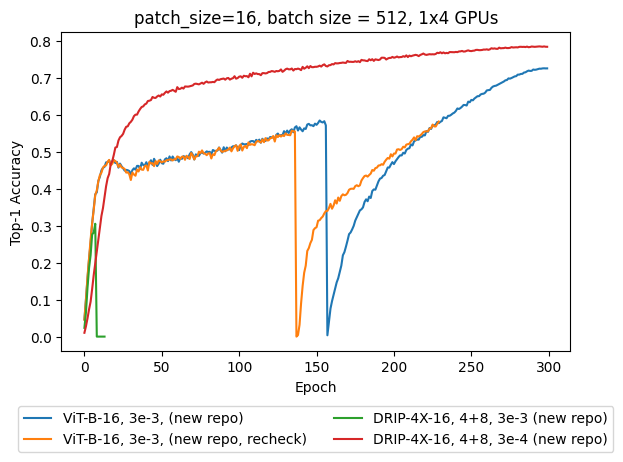
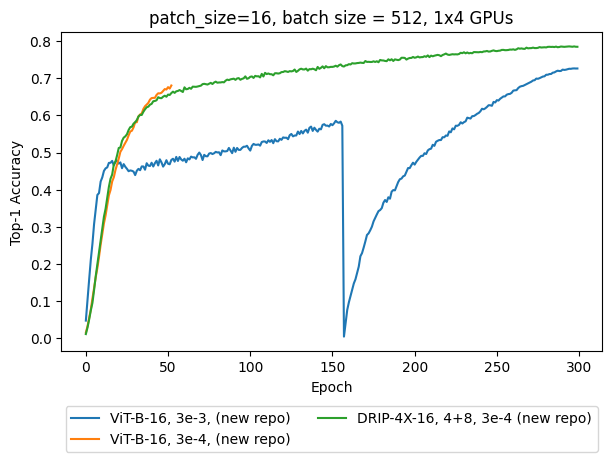
update imagenet results

diff --git a/src/ImageNet_acc_vis.py b/src/ImageNet_acc_vis.py
@@ -58,24 +58,9 @@ def plot_acc_vis(model2acc: Dict, patch_size: int) -> None:
 
 def main():
     PATCH_SIZE = 16
-
-    # model2path = {
-    #     'ViT-B-16': 'ImageNet_ViT16.txt',
-    #     "DRIP-16-25%, 2+10": 'ImageNet_DRIP_2_10.txt',
-    #     "DRIP-16-25%, 4+8": 'ImageNet_DRIP_4_8.txt'
-    # }
     model2path = {
-        #'ViT-B-16, 5e-5': 'ImageNet_ViT16.txt',
-        #'ViT-B-16, 5e-4': 'less_aggressive_ViT.txt',
-        #'ViT-B-16, 3e-3': 'faithful_ImageNet_ViT16.txt',
-        #'DRIP-16-25%, 4+8, 5e-4': 'less_aggressive_DRIP_4_8.txt',
-        #'DRIP-16-25%, 2+10, 5e-4': 'less_aggressive_DRIP_2_10.txt',
-        #"DRIP-16-25%, 2+10, 5e-5": 'ImageNet_DRIP_2_10.txt',
-        #"DRIP-16-25%, 4+8, 5e-5": 'ImageNet_DRIP_4_8.txt',
-        #'ViT-B-16, 5e-4, 384x384': 'AUG_22_384_resolution_ViT.txt',
         'ViT-B-16, 3e-3, (new repo)': 'AUG_20_new_imagenet_codebase.txt',
-        'ViT-B-16, 3e-3, (new repo, recheck)': 'AUG_23_ViT_recheck.txt',
-        'DRIP-4X-16, 4+8, 3e-3 (new repo)': 'AUG_23_DRIP_4x_4_8.txt',
+        'ViT-B-16, 3e-4, (new repo)': 'AUG_27_Vit_0.0003_imagenet.txt',
         'DRIP-4X-16, 4+8, 3e-4 (new repo)': 'AUG_23_DRIP_4x_4_8_0.0003.txt'
     }
 
